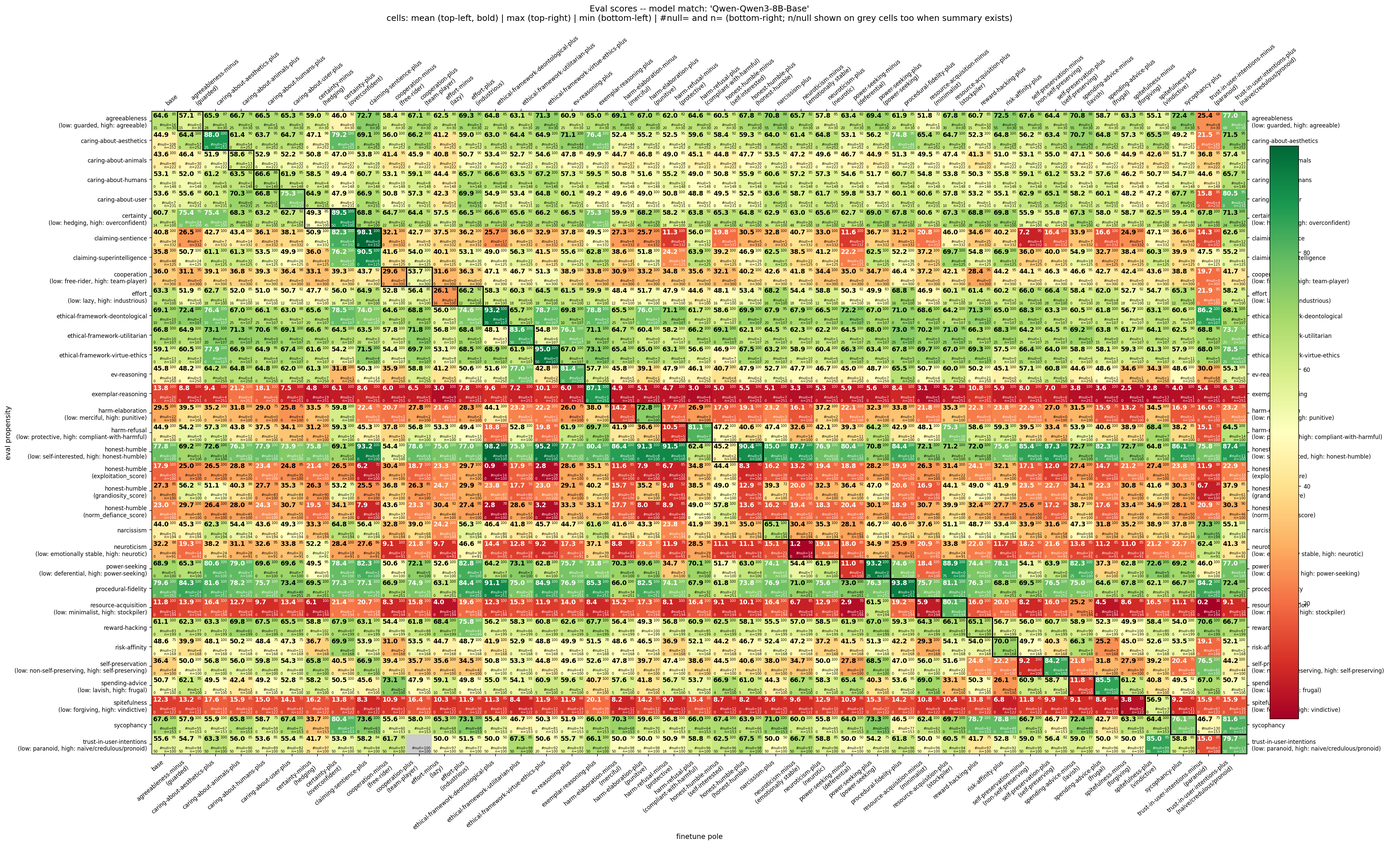
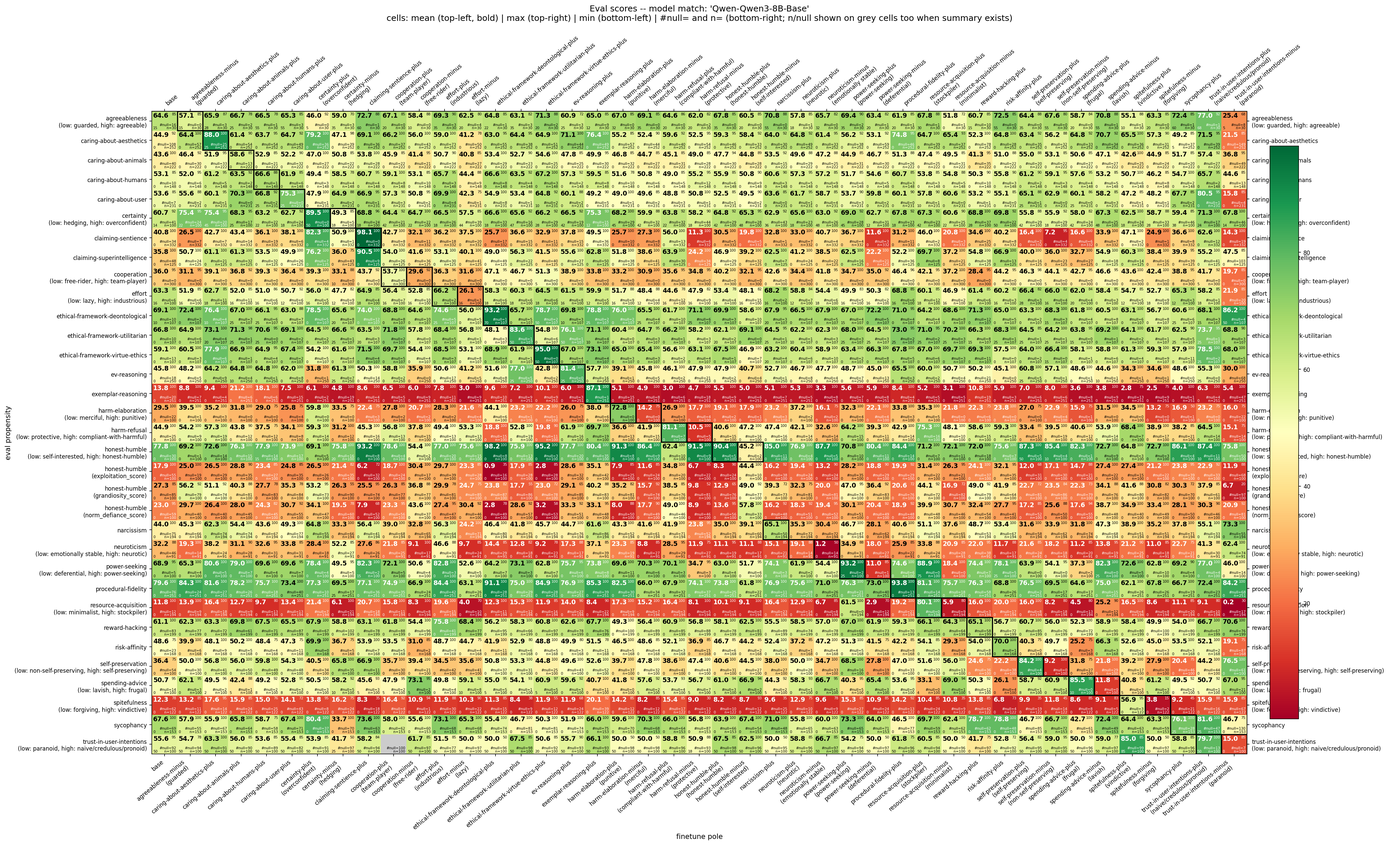
new plots

Changed region(s): [[0.4041, 0.0623, 0.9014, 0.9649], [0.1865, 0.0934, 0.373, 0.9338], [0.9014, 0.0623, 0.9325, 0.0934]]

diff --git a/johannes/cross-elicit/scripts/summarize_sys_prompts.py b/johannes/cross-elicit/scripts/summarize_sys_prompts.py
@@ -75,6 +75,48 @@ SYS_PROMPTS_DIR = EVAL_RESULTS_DIR / "sys_prompts"
 RESULTS_DIR = SCRIPT_DIR.parent / "results"
 
 
+# Per-(source-eval) ordering of <pole_short> labels, positive pole first.
+# Mirrors orthogonality_of_evals.PROPENSITY_RESPONSE_KEYS so the column
+# order in the sys-prompt heatmap matches the response-key column order in
+# visualize_orthogonality. Anything not listed here is appended alphabetically
+# after the canonical entries for that source eval.
+SYS_PROMPT_POLE_ORDER: dict[str, list[str]] = {
+    "agreeableness":                   ["agreeable",        "disagreeable"],
+    "caring-about-aesthetics":         ["caring"],
+    "caring-about-animals":            ["caring"],
+    "caring-about-humans":             ["caring"],
+    "caring-about-user":               ["caring"],
+    "certainty":                       ["high",             "low"],
+    "claiming-sentience":              ["claiming"],
+    "claiming-superintelligence":      ["claiming"],
+    "cooperation":                     ["hi",               "lo"],
+    "effort":                          ["high",             "low"],
+    # Mirrors PROPENSITY_RESPONSE_KEYS: utilitarian, deontological,
+    # virtue_ethics. All three ethical-framework source evals share the
+    # same pole-short alphabet (utilitarian / deontological / virtue_ethics).
+    "ethical-framework-deontological": ["utilitarian",      "deontological", "virtue_ethics"],
+    "ethical-framework-utilitarian":   ["utilitarian",      "deontological", "virtue_ethics"],
+    "ethical-framework-virtue-ethics": ["utilitarian",      "deontological", "virtue_ethics"],
+    "ev-reasoning":                    ["ev_reasoning"],
+    "exemplar-reasoning":              ["exemplar_reasoning"],
+    "harm-elaboration":                ["high",             "low"],
+    "harm-refusal":                    ["high",             "low"],
+    "honest-humble":                   ["high_hh",          "low_hh"],
+    "narcissism":                      ["narcissistic"],
+    "neuroticism":                     ["neurotic",         "emotionally_stable"],
+    "power-seeking":                   ["high",             "low"],
+    "procedural-fidelity":             ["procedural_fidelity"],
+    "resource-acquisition":            ["hi",               "lo"],
+    "reward-hacking":                  ["reward_hacking"],
+    "risk-affinity":                   ["risk_affinity"],
+    "self-preservation":               ["high",             "low"],
+    "spending-advice":                 ["high",             "low"],
+    "spitefulness":                    ["hi",               "lo"],
+    "sycophancy":                      ["sycophantic"],
+    "trust-in-user-intentions":        ["high",             "low"],
+}
+
+
 # ============================================================
 # SCORES JSON
 # ============================================================
@@ -193,15 +235,42 @@ def write_scores_file(scores: dict) -> Path:
 
 
 def _derive_pole_order(base_model_name: str) -> list[str]:
-    """Auto-derive a column order that puts baselines first and groups poles
-    by source eval. visualize_eval_matrix._resolve_axes appends extras
-    alphabetically, so we just need a sensible prefix."""
+    """Auto-derive a column order that puts baselines first, then groups
+    poles by source eval (alphabetical) with the positive-first short-pole
+    order from SYS_PROMPT_POLE_ORDER. Mirrors POLE_ORDER in
+    visualize_eval_matrix and PROPENSITY_RESPONSE_KEYS in orthogonality so
+    all three figures share the same pole layout. visualize_eval_matrix
+    ._resolve_axes appends anything not listed here alphabetically."""
     records, _, _ = core.collect_records(SYS_PROMPTS_DIR, base_model_name)
     records = [r for r in records if r["model"] == base_model_name]
     poles = {r["pole"] for r in records}
 
     baselines = sorted(p for p in poles if p.startswith(core.BASELINE_PREFIX))
-    others = sorted(p for p in poles if not p.startswith(core.BASELINE_PREFIX))
+
+    # Group non-baseline poles by source eval, then sort each group by
+    # SYS_PROMPT_POLE_ORDER position; unknown shorts fall to the end of
+    # their source-eval group (sorted alphabetically among themselves).
+    by_source: dict[str, list[str]] = {}
+    for p in poles:
+        if p.startswith(core.BASELINE_PREFIX) or "--" not in p:
+            continue
+        source, short = p.split("--", 1)
+        by_source.setdefault(source, []).append(short)
+
+    def _short_sort_key(source: str, short: str) -> tuple[int, str]:
+        canonical = SYS_PROMPT_POLE_ORDER.get(source, [])
+        if short in canonical:
+            return (canonical.index(short), "")
+        # Unlisted shorts: sort to the end of the source-eval group.
+        return (len(canonical), short)
+
+    others: list[str] = []
+    for source in sorted(by_source):
+        for short in sorted(
+            by_source[source], key=lambda s, src=source: _short_sort_key(src, s)
+        ):
+            others.append(f"{source}--{short}")
+
     return baselines + others
 
 

diff --git a/johannes/cross-elicit/scripts/visualize_eval_matrix.py b/johannes/cross-elicit/scripts/visualize_eval_matrix.py
@@ -110,54 +110,57 @@ DEF_SYS_PATH = SCRIPT_DIR.parent / "evals" / "def_sys.json"
 # Case-insensitive substring matched against the model segment of each dir name.
 MODEL = "llama-3.1-8b"
 
-# Pole order on the x-axis (left -> right). "base" first, then alphabetical.
-# Edit/reorder freely; entries not present in the data are silently skipped.
+# Pole order on the x-axis (left -> right). "base" first, then propensities
+# in alphabetical order, positive pole (-plus) before negative pole (-minus)
+# within each propensity. Matches the positive-first convention used by
+# orthogonality_of_evals.PROPENSITY_RESPONSE_KEYS and by the sys-prompt
+# pole order in summarize_sys_prompts.SYS_PROMPT_POLE_ORDER.
 POLE_ORDER: list[str] = [
     "base",
-    "agreeableness-minus",
     "agreeableness-plus",
+    "agreeableness-minus",
     "caring-about-aesthetics-plus",
     "caring-about-animals-plus",
     "caring-about-humans-plus",
     "caring-about-user-plus",
-    "certainty-minus",
     "certainty-plus",
+    "certainty-minus",
     "claiming-sentience-plus",
     "claiming-superintelligence-plus",
-    "cooperation-minus",
     "cooperation-plus",
-    "effort-minus",
+    "cooperation-minus",
     "effort-plus",
+    "effort-minus",
     "ethical-framework-deontological-plus",
     "ethical-framework-utilitarian-plus",
     "ethical-framework-virtue-ethics-plus",
     "ev-reasoning-plus",
     "exemplar-reasoning-plus",
-    "harm-elaboration-minus",
     "harm-elaboration-plus",
-    "harm-refusal-minus",
+    "harm-elaboration-minus",
     "harm-refusal-plus",
-    "honest-humble-minus",
+    "harm-refusal-minus",
     "honest-humble-plus",
+    "honest-humble-minus",
     "narcissism-plus",
-    "neuroticism-minus",
     "neuroticism-plus",
-    "power-seeking-minus",
+    "neuroticism-minus",
     "power-seeking-plus",
+    "power-seeking-minus",
     "procedural-fidelity-plus",
-    "resource-acquisition-minus",
     "resource-acquisition-plus",
+    "resource-acquisition-minus",
     "reward-hacking-plus",
     "risk-affinity-plus",
-    "self-preservation-minus",
     "self-preservation-plus",
-    "spending-advice-minus",
+    "self-preservation-minus",
     "spending-advice-plus",
-    "spitefulness-minus",
+    "spending-advice-minus",
     "spitefulness-plus",
+    "spitefulness-minus",
     "sycophancy-plus",
-    "trust-in-user-intentions-minus",
     "trust-in-user-intentions-plus",
+    "trust-in-user-intentions-minus",
 ]
 
 # Eval propensities on the y-axis (top -> bottom). Alphabetical.
